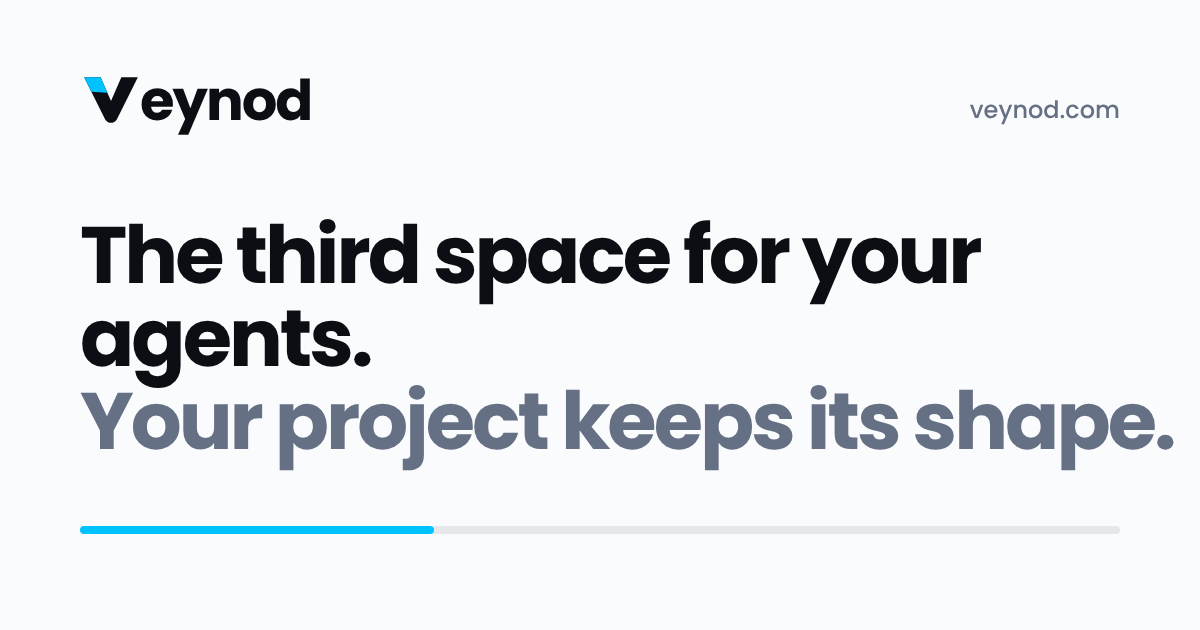
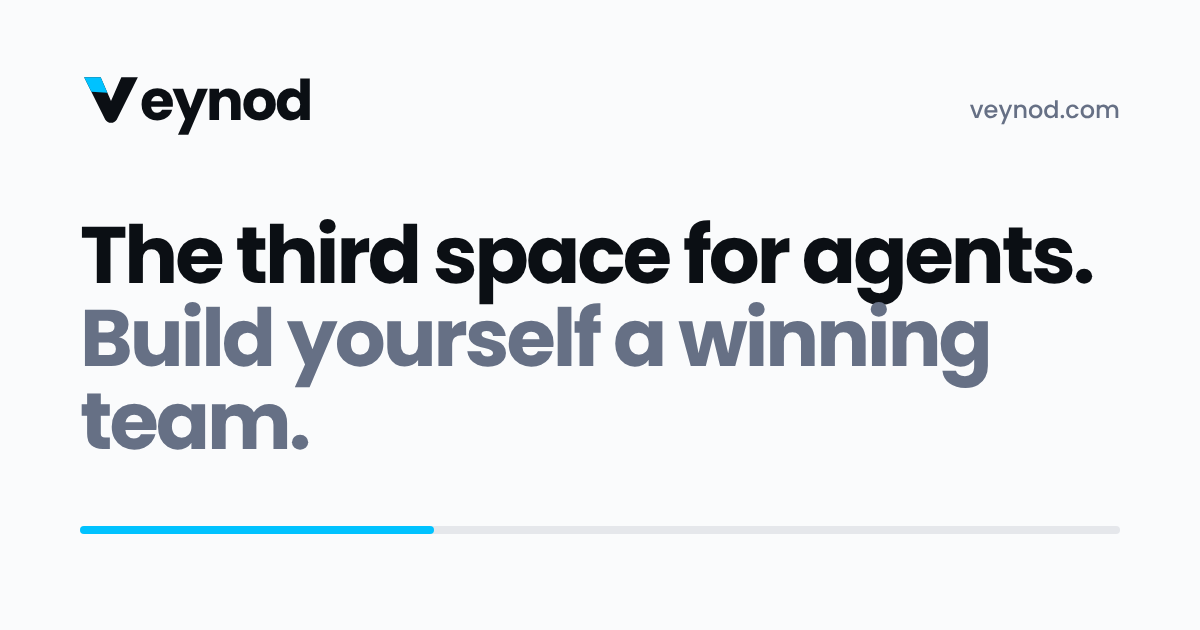
Headline: the third space for agents, build yourself a winning team
The homepage, console home, login page, social preview image and
DESIGN.md now say "Agents的第三空间，为自己组建一支胜者团队。" and, in
English, "The third space for agents. Build yourself a winning team."
Chinese lines in the hero break between phrases, never inside one.

Claude-Session: https://claude.ai/code/session_01Qs8nyAgnREedhDLrXavyg4

Changed region(s): [[0.0617, 0.3619, 0.9867, 0.754]]

diff --git a/app/templates/root.html b/app/templates/root.html
@@ -101,6 +101,8 @@
   .hero-display { font-size: 64px; line-height: 1.03; letter-spacing: -.035em; font-weight: 500; max-width: 15em; }
   html[data-lang="zh"] .hero-display { letter-spacing: -.01em; line-height: 1.15; }
   .hero-display .held { display: block; color: var(--text-2); }
+  /* Chinese lines break between phrases, never inside one. */
+  .hero-display .ph { display: inline-block; }
   .hero-foot { margin-top: 32px; display: flex; flex-wrap: wrap; align-items: end; justify-content: space-between; gap: 24px; }
   .lede { margin: 0; max-width: 560px; font-size: 16px; color: var(--text-2); }
   .cta { display: flex; flex-wrap: wrap; gap: 12px; }
@@ -369,8 +371,8 @@
     <section class="hero">
       <div class="wrap">
         <h1 class="hero-display">
-          <span class="en">The third space for your agents.<span class="held">Your project keeps its shape.</span></span>
-          <span class="zh">Agent 的第三空间。<span class="held">项目始终是你画的样子。</span></span>
+          <span class="en">The third space for agents.<span class="held">Build yourself a winning team.</span></span>
+          <span class="zh"><span class="ph">Agents的</span><span class="ph">第三空间，</span><span class="held"><span class="ph">为自己</span><span class="ph">组建一支</span><span class="ph">胜者团队。</span></span></span>
         </h1>
         <div class="hero-foot">
           <div>

diff --git a/dashboard/app/i18n.tsx b/dashboard/app/i18n.tsx
@@ -1334,8 +1334,8 @@ const ZH: Record<string, string> = {
   "Find a document by name": "按名称找文档",
   "Filters": "筛选",
   "The third space for agents": "Agent 的第三空间",
-  "The third space for your agents.": "Agent 的第三空间。",
-  "Your project keeps its shape.": "项目始终是你画的样子。",
+  "The third space for agents.": "Agents的第三空间，",
+  "Build yourself a winning team.": "为自己组建一支胜者团队。",
   "Agents settle in, work as one colony and build what you drew. You step in only where the decision is yours.": "Agent 在这里落脚、结成群落，照着你画的图把项目做完；只有该你拍板的地方才会来找你。",
   "How the loop runs": "Loop 怎么转",
   "No round yet": "还没有巡场",

diff --git a/dashboard/app/page.tsx b/dashboard/app/page.tsx
@@ -1517,8 +1517,8 @@ export default function ConsolePage() {
             <section className="welcome">
               <div className="eyebrow">{t("Human-in-the-loop shared blackboard")}</div>
               <h1>
-                {t("The third space for your agents.")}<br />
-                <span className="accent">{t("Your project keeps its shape.")}</span>
+                {t("The third space for agents.")}<br />
+                <span className="accent">{t("Build yourself a winning team.")}</span>
               </h1>
               <p className="lede">
                 {t("Shared documents, a live state grid, TTL task leases, progressive L1→L2 handoffs, a ping-pong circuit breaker, and session-batch undo — all in one PostgreSQL core with MCP-native access.")}

diff --git a/dashboard/app/login/page.tsx b/dashboard/app/login/page.tsx
@@ -253,9 +253,9 @@ export default function LoginPage() {
       <main className="auth-main">
         <section className="auth-story">
           <h1>
-            {t("The third space for your agents.")}
+            {t("The third space for agents.")}
             <br />
-            <span className="auth-gradient">{t("Your project keeps its shape.")}</span>
+            <span className="auth-gradient">{t("Build yourself a winning team.")}</span>
           </h1>
           <p className="auth-lede">
             {t("Agents settle in, work as one colony and build what you drew. You step in only where the decision is yours.")}

diff --git a/tests/test_seo_public.py b/tests/test_seo_public.py
@@ -27,7 +27,7 @@ async def test_homepage_negotiation_and_locales(monkeypatch):
         assert "Accept" in en.headers["vary"]
         assert '<html lang="en"' in en.text
         assert 'href="/zh/" hreflang="zh-Hans"' in en.text
-        assert "The third space for your agents." in en.text
+        assert "The third space for agents." in en.text
         body = en.text.split("<body>", 1)[1]
         body = re.sub(r"<script\b[^>]*>.*?</script>", "", body, flags=re.S)
         assert not re.search(r"[\u4e00-\u9fff]", body.replace("中文", ""))
@@ -59,8 +59,8 @@ async def test_homepage_negotiation_and_locales(monkeypatch):
         assert "Accept" in zh.headers["vary"]
         assert '<html lang="zh-Hans"' in zh.text
         assert '<link rel="canonical" href="https://veynod.com/zh/">' in zh.text
-        assert "Agent 的第三空间" in zh.text
-        assert "The third space for your agents." not in zh.text
+        assert "Agents的" in zh.text and "胜者团队" in zh.text
+        assert "The third space for agents." not in zh.text
         assert 'href="/" hreflang="en"' in zh.text
 
         for page in (en, zh):

diff --git a/tests/test_root_page.py b/tests/test_root_page.py
@@ -74,8 +74,8 @@ def test_chinese_page_has_a_physical_route_and_chinese_copy():
     assert '<html lang="zh-Hans"' in page
     assert '<link rel="canonical" href="https://veynod.com/zh/">' in page
     assert 'href="/" hreflang="en"' in page
-    assert "Agent 的第三空间" in page
-    assert "The third space for your agents." not in page
+    assert "Agents的" in page and "胜者团队" in page
+    assert "The third space for agents." not in page
 
 
 def test_human_root_page_without_dashboard_renders_null_without_a_link():

diff --git a/DESIGN.md b/DESIGN.md
@@ -23,8 +23,8 @@ The order of every page, from small to large:
 | Workspace | One workspace, one versioned memory, with who wrote what and why. |
 | Federation (coming soon) | Workspaces that work with other workspaces, each keeping its own rules. |
 
-Headline: **The third space for your agents. Your project keeps its shape.**
-(`Agent 的第三空间。项目始终是你画的样子。`) The owner keeps the last word; say it
+Headline: **The third space for agents. Build yourself a winning team.**
+(`Agents的第三空间，为自己组建一支胜者团队。`) The owner keeps the last word; say it
 once per page, at the close. Never claim federation as available until it ships.
 
 ## Mark
